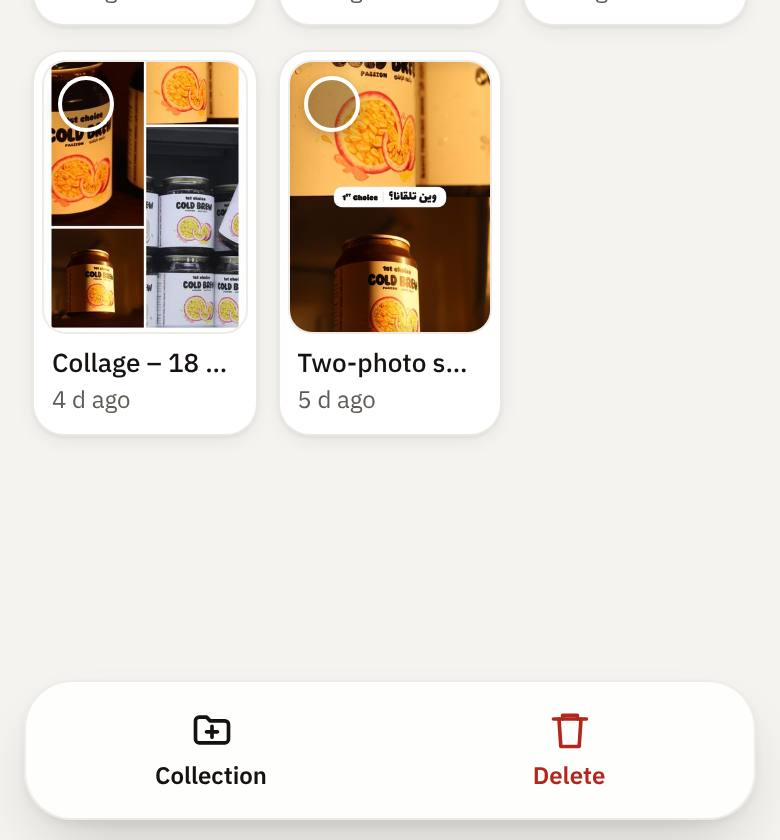
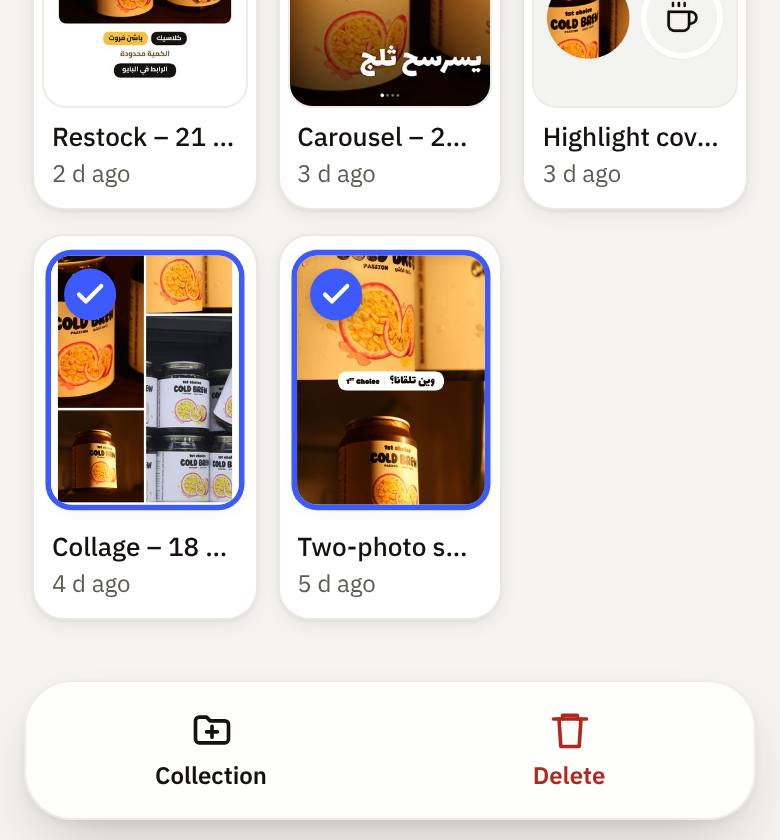
1.18.0: What's New shots and pending notes (Save pictures)
Claude-Session: https://claude.ai/code/session_01Y65H7XE6Jk4StQgFKHxr4g

diff --git a/studio-notes/pending/1.18.0.md b/studio-notes/pending/1.18.0.md
@@ -1,0 +1,51 @@
+# 1.18.0 pending notes (Team session: Save pictures from Saved, backlog #5 second half)
+
+Branch `claude/v1.18-batchsaved`. For the lead to fold in at release.
+
+## What's New card (changelog format)
+
+```
+### Save the pictures of several designs at once
+type: feature
+In **Saved**, tap **Select**, tick the designs you want and tap **Save pictures** in the bar at the bottom. Studio makes every picture at full quality, exactly as if you opened each design and tapped Save (2160×3840 for stories, 2160×2700 for posts, every slide of a carousel), and shows **Saving 2 of 5…** with **Cancel**. On a phone they all open in one share sheet; on a computer they come as one ZIP. Each file is named after its design (**Shelf-day.png**, **Four-slides-01.png**…). Templates are skipped, since they have no picture of their own. Up to 20 designs at a time.
+![before](assets/whatsnew/1.18.0-savepics-before.jpg)
+![after](assets/whatsnew/1.18.0-savepics-after.jpg)
+```
+
+Tap counts: saving the pictures of 5 designs was 5 × (open + Save + Save in the sheet + back) ≈ 20 taps; now Select + 5 ticks + Save pictures = 7 (a phone that took long to draw asks for one more tap on **Save to Photos**, as Save already does). Restock / Photo story / Save + team counts unchanged (the tool pages' Save is untouched apart from the shared drawing function).
+
+## How it works (for the notes / README)
+- New `assets/render.js` (`StudioRender`): each picked design is opened in a hidden same-origin frame of its own tool page, `tools/<tool>.html?design=<id>&render=1`. With `render=1`, `tool()` exposes `Studio.renderer` (`ok`, `missing`, `pages`, `W`, `H`, `page(pg,max)`), which draws with **`renderPage()`**, the function `save()` now uses too (moved out of `save()` unchanged), with the same 2× → 1.5× → 1× steps down. So the batch PNGs are byte-for-byte the files you get by opening the design and tapping Save (the test proves it for a Restock, a Photo story and a 4-slide Carousel post).
+- The select-bar button is created in `home()` (before Delete), so `index.html` is not touched.
+- Phone: one `navigator.share` with every file; if the drawing took too long for the phone's tap window, the dialog offers **Save to Photos** (same rule as Save). Computer: one ZIP via `assets/batch.js` (`<brand>-pictures-YYYYMMDD-HHMM.zip`), a single picture downloads as a PNG.
+- Low memory: same message as Save, but says "device" on a computer.
+
+## tool() touch (overlap note)
+- `save()`'s inner `renderAt` now calls a new tool-level `renderPage(pg,K,withPhotos,mid)` (same code, moved); and a 4-line `Studio.renderer` block just above `Studio.debug`. Nothing else in `tool()`. Merging with 1.13.0 (save-engine fallback message) should be clean: that message line is not in the moved block.
+
+## sw.js shell
+- add `assets/render.js`.
+
+## tests/run.mjs MAP rows
+- new suite `batch-saved` (~SECONDS s; phone + desktop, light + dark).
+  - `[/assets\/render\.js/,['batch-saved']]`
+  - add `'batch-saved'` to the `assets/batch.js` row (`['batch','batch-saved']`)
+  - add `'batch-saved'` to `HUB_SUITES` (select bar in `home()`) and `TOOL_SUITES` (the render hook / `renderPage()` live in `tool()`), and `'batch-saved':SECONDS` to `SLOW` if over ~60 s.
+- Skill test map: row "Save engine, Save sheet, team save, Save all" add `batch-saved` and `assets/render.js`; row "Saved page … select mode" add `batch-saved`.
+
+## README lines
+- Saved → Select → **Save pictures**: saves the picture of every ticked design at full quality (2160×3840 stories, 2160×2700 posts, every slide), in one share sheet on a phone or one ZIP on a computer; "Saving 2 of 5…" with Cancel; files are named after the designs; templates are skipped; up to 20 at a time.
+
+## Backlog / lessons / taste
+- Backlog #5 Batch export: done (both halves).
+- Lesson: to render other designs, a hidden same-origin frame of the tool page (`?design=…&render=1`) reused the whole engine with a 4-line hook; moving the canvas part of `save()` into one function both paths call makes "same pixels" true by construction (byte-identical PNGs in the test).
+- Idea (backlog): Save pictures could also take unfinished drafts from Continue editing (same frame path with `?draft=<id>&render=1`).
+
+## Scoreboard row
+| 1.18.0 | Team | Quality 5 | Speed 5 | Owner-reported: (fill at next session) | Taste: PASS | Reused the tool page in a hidden frame instead of a second renderer; proved byte-identical output. |
+
+## Wording for approval
+- None in Arabic. New English UI text: "Save pictures", "Saving N pictures", "Saving 2 of 5…", "(3 of 4)", "Stopping…", "Stopped. Nothing was saved.", "Saved!", "Ready!", "Tap Save to Photos to put your N pictures in your photos.", "Choose “Save N Images” if you haven’t yet. Every picture is full quality.", "Your N pictures are in your downloads in one ZIP (name.zip).", "N templates skipped (templates have no picture of their own).", "Not saved: “name” has a photo missing.", "Pick up to 20 designs at a time.", "That is a template: open it to make a design, then save its picture."
+
+## Test results on the branch (last run)
+RESULTS
